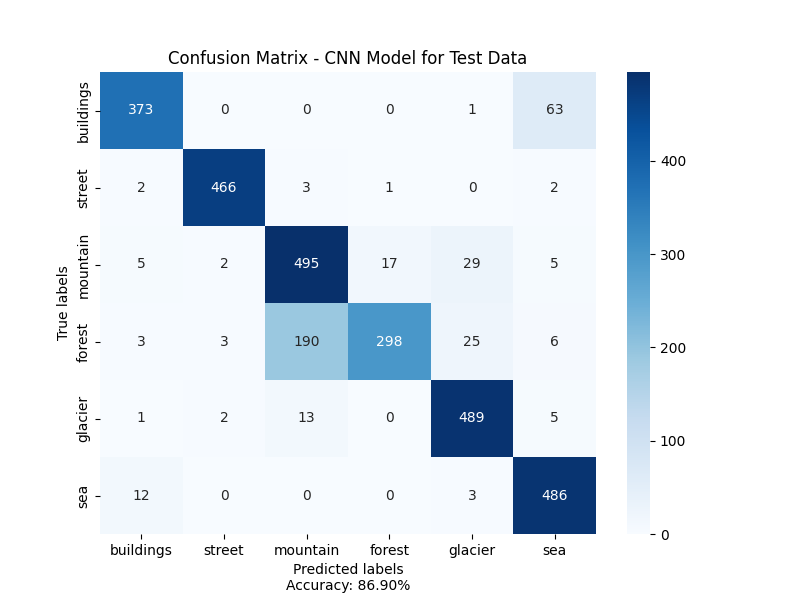
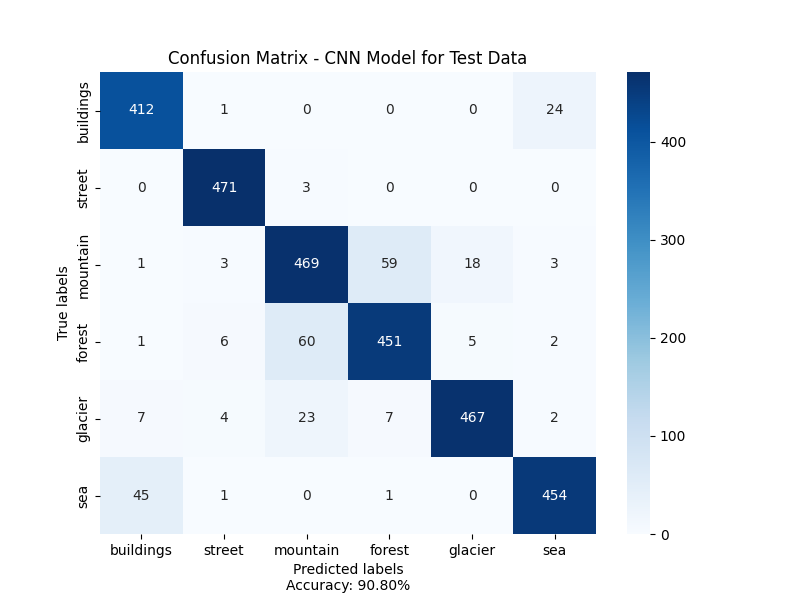
Updated gitignore and cnn model

diff --git a/Assignment1/cnn_model.py b/Assignment1/cnn_model.py
@@ -24,7 +24,7 @@ from sklearn.model_selection import train_test_split
 img_size = (256,256)
 batch_size = 64
 num_classes = 6
-epochs = 1
+epochs = 10
 
 # Define the directories
 train_dir = os.path.join(os.path.dirname(os.path.realpath(__file__)), "Intel_Image_classification", "seg_train", "seg_train")
